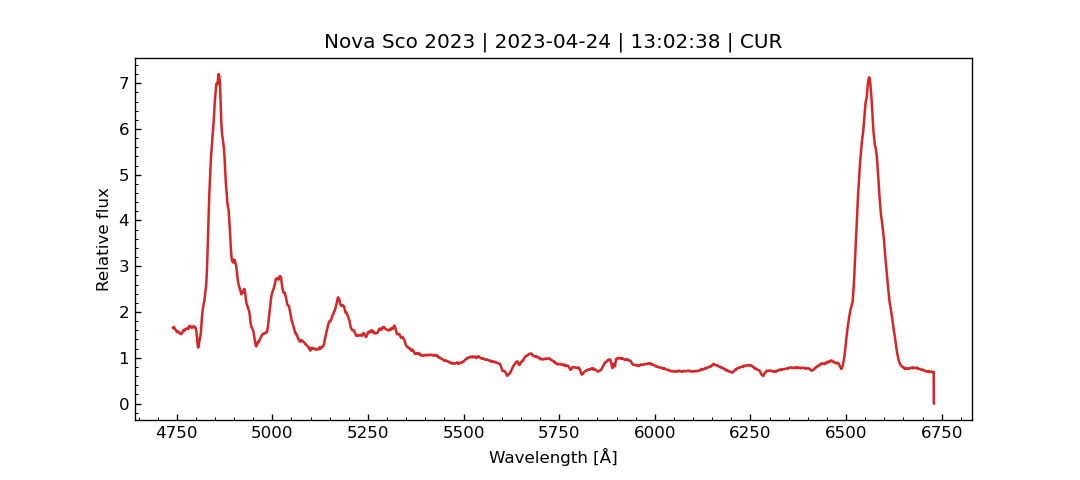
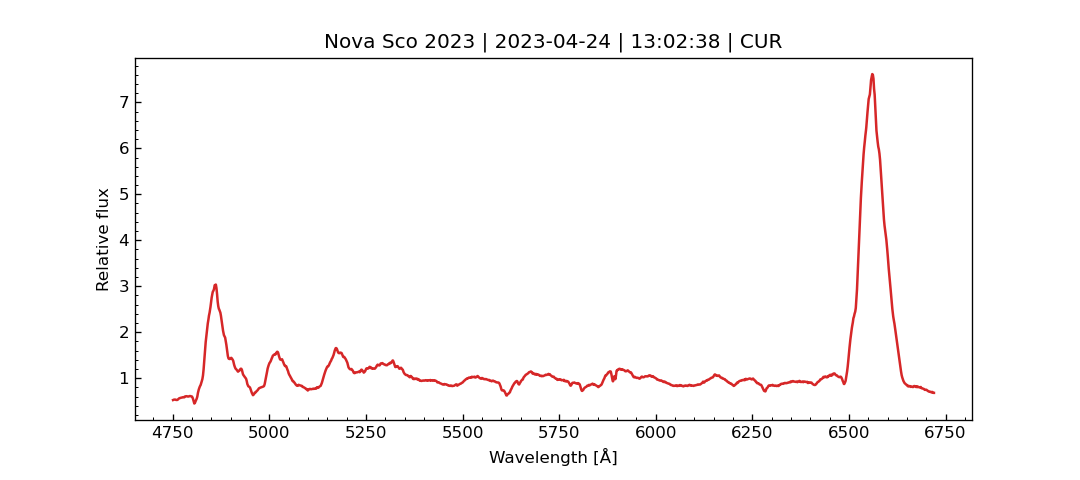
2023-04-25

diff --git a/novasco2023.html b/novasco2023.html
@@ -69,13 +69,15 @@
       <p class="card-text">RA (2000): 17 22 44.90</p>
   <p class="card-text">DEC (2000):  -41 37 16.0 </p>
   <p class="card-text">V (mag): MagnitudeV</p>
+  <a href="http://astronomy.science.upjs.sk/symbiotics/galactic-symbiotic-stars/confirmed-galactic-symbiotic-stars/Nom1/" class="btn btn-primary">New Online Database of Symbiotic Variables</a>
+      <a href="http://simbad.harvard.edu/simbad/sim-id?Ident=Nom2&NbIdent=1&Radius=2&Radius.unit=arcmin&submit=submit+id" class="btn btn-secondary">SIMBAD</a>
   </div>
   </div>
 </div><div class="col-sm-6">
     <div class="card">
       <div class="card-body">
 
-        <p class="card-text">Number of spectra:   12</p>
+        <p class="card-text">Number of spectra:   13</p>
 <p class="card-text">First spectrum:   2023-04-22</p>
 <p class="card-text">Last spectrum:   2023-04-25</p>
 <br>
@@ -243,21 +245,6 @@
     </tr>
     <tr>
       <td>2023-04-24</td>
-      <td>13:02</td>
-      <td>60059.044</td>
-      <td>CUR</td>
-      <td>SSO-AU</td>
-      <td>1058</td>
-      <td><svg xmlns="http://www.w3.org/2000/svg" width="5" height="16" fill="#007bff" class="bi bi-square-fill" viewBox="1 0 5 16"><path d="M0 2a2 2 0 0 1 2-2h12a2 2 0 0 1 2 2v12a2 2 0 0 1-2 2H2a2 2 0 0 1-2-2V2z"/></svg><svg xmlns="http://www.w3.org/2000/svg" width="5" height="16" fill="#007bff" class="bi bi-square-fill" viewBox="1 0 5 16"><path d="M0 2a2 2 0 0 1 2-2h12a2 2 0 0 1 2 2v12a2 2 0 0 1-2 2H2a2 2 0 0 1-2-2V2z"/></svg></td>
-      <td>4740</td>
-      <td>6730</td>
-      <td><svg xmlns="http://www.w3.org/2000/svg" width="5" height="16" fill="#EAC117" class="bi bi-square-fill" viewBox="1 0 5 16"><path d="M0 2a2 2 0 0 1 2-2h12a2 2 0 0 1 2 2v12a2 2 0 0 1-2 2H2a2 2 0 0 1-2-2V2z"/></svg><svg xmlns="http://www.w3.org/2000/svg" width="5" height="16" fill="#E42217" class="bi bi-square-fill" viewBox="1 0 5 16"><path d="M0 2a2 2 0 0 1 2-2h12a2 2 0 0 1 2 2v12a2 2 0 0 1-2 2H2a2 2 0 0 1-2-2V2z"/></svg></td>
-      <td><a href="spectra/asdb_novasco2023_20230424_543.fit" download target="_blank"><svg width="1em" height="1em" viewBox="0 0 16 16" class="bi bi-download" fill="currentColor" xmlns="http://www.w3.org/2000/svg"><path fill-rule="evenodd" d="M.5 8a.5.5 0 0 1 .5.5V12a1 1 0 0 0 1 1h12a1 1 0 0 0 1-1V8.5a.5.5 0 0 1 1 0V12a2 2 0 0 1-2 2H2a2 2 0 0 1-2-2V8.5A.5.5 0 0 1 .5 8z"/><path fill-rule="evenodd" d="M5 7.5a.5.5 0 0 1 .707 0L8 9.793 10.293 7.5a.5.5 0 1 1 .707.707l-2.646 2.647a.5.5 0 0 1-.708 0L5 8.207A.5.5 0 0 1 5 7.5z"/><path fill-rule="evenodd" d="M8 1a.5.5 0 0 1 .5.5v8a.5.5 0 0 1-1 0v-8A.5.5 0 0 1 8 1z"/></svg></a></td>
-      <td><a href="figures/asdb_novasco2023_20230424_543.png" target="_blank"><svg width="1em" height="1em" viewBox="0 0 16 16" class="bi bi-eye" fill="currentColor" xmlns="http://www.w3.org/2000/svg"><path fill-rule="evenodd" d="M16 8s-3-5.5-8-5.5S0 8 0 8s3 5.5 8 5.5S16 8 16 8zM1.173 8a13.134 13.134 0 0 0 1.66 2.043C4.12 11.332 5.88 12.5 8 12.5c2.12 0 3.879-1.168 5.168-2.457A13.134 13.134 0 0 0 14.828 8a13.133 13.133 0 0 0-1.66-2.043C11.879 4.668 10.119 3.5 8 3.5c-2.12 0-3.879 1.168-5.168 2.457A13.133 13.133 0 0 0 1.172 8z"/><path fill-rule="evenodd" d="M8 5.5a2.5 2.5 0 1 0 0 5 2.5 2.5 0 0 0 0-5zM4.5 8a3.5 3.5 0 1 1 7 0 3.5 3.5 0 0 1-7 0z"/></svg></a></td>
-      <td></td>
-    </tr>
-    <tr>
-      <td>2023-04-24</td>
       <td>14:10</td>
       <td>60059.091</td>
       <td>HBA</td>
@@ -284,6 +271,36 @@
       <td><svg xmlns="http://www.w3.org/2000/svg" width="5" height="16" fill="#151B8D" class="bi bi-square-fill" viewBox="1 0 5 16"><path d="M0 2a2 2 0 0 1 2-2h12a2 2 0 0 1 2 2v12a2 2 0 0 1-2 2H2a2 2 0 0 1-2-2V2z"/></svg><svg xmlns="http://www.w3.org/2000/svg" width="5" height="16" fill="#4AA02C" class="bi bi-square-fill" viewBox="1 0 5 16"><path d="M0 2a2 2 0 0 1 2-2h12a2 2 0 0 1 2 2v12a2 2 0 0 1-2 2H2a2 2 0 0 1-2-2V2z"/></svg><svg xmlns="http://www.w3.org/2000/svg" width="5" height="16" fill="#EAC117" class="bi bi-square-fill" viewBox="1 0 5 16"><path d="M0 2a2 2 0 0 1 2-2h12a2 2 0 0 1 2 2v12a2 2 0 0 1-2 2H2a2 2 0 0 1-2-2V2z"/></svg><svg xmlns="http://www.w3.org/2000/svg" width="5" height="16" fill="#E42217" class="bi bi-square-fill" viewBox="1 0 5 16"><path d="M0 2a2 2 0 0 1 2-2h12a2 2 0 0 1 2 2v12a2 2 0 0 1-2 2H2a2 2 0 0 1-2-2V2z"/></svg><svg xmlns="http://www.w3.org/2000/svg" width="5" height="16" fill="#8C001A" class="bi bi-square-fill" viewBox="1 0 5 16"><path d="M0 2a2 2 0 0 1 2-2h12a2 2 0 0 1 2 2v12a2 2 0 0 1-2 2H2a2 2 0 0 1-2-2V2z"/></svg></td>
       <td><a href="spectra/asdb_novasco2023_20230425_188.fit" download target="_blank"><svg width="1em" height="1em" viewBox="0 0 16 16" class="bi bi-download" fill="currentColor" xmlns="http://www.w3.org/2000/svg"><path fill-rule="evenodd" d="M.5 8a.5.5 0 0 1 .5.5V12a1 1 0 0 0 1 1h12a1 1 0 0 0 1-1V8.5a.5.5 0 0 1 1 0V12a2 2 0 0 1-2 2H2a2 2 0 0 1-2-2V8.5A.5.5 0 0 1 .5 8z"/><path fill-rule="evenodd" d="M5 7.5a.5.5 0 0 1 .707 0L8 9.793 10.293 7.5a.5.5 0 1 1 .707.707l-2.646 2.647a.5.5 0 0 1-.708 0L5 8.207A.5.5 0 0 1 5 7.5z"/><path fill-rule="evenodd" d="M8 1a.5.5 0 0 1 .5.5v8a.5.5 0 0 1-1 0v-8A.5.5 0 0 1 8 1z"/></svg></a></td>
       <td><a href="figures/asdb_novasco2023_20230425_188.png" target="_blank"><svg width="1em" height="1em" viewBox="0 0 16 16" class="bi bi-eye" fill="currentColor" xmlns="http://www.w3.org/2000/svg"><path fill-rule="evenodd" d="M16 8s-3-5.5-8-5.5S0 8 0 8s3 5.5 8 5.5S16 8 16 8zM1.173 8a13.134 13.134 0 0 0 1.66 2.043C4.12 11.332 5.88 12.5 8 12.5c2.12 0 3.879-1.168 5.168-2.457A13.134 13.134 0 0 0 14.828 8a13.133 13.133 0 0 0-1.66-2.043C11.879 4.668 10.119 3.5 8 3.5c-2.12 0-3.879 1.168-5.168 2.457A13.133 13.133 0 0 0 1.172 8z"/><path fill-rule="evenodd" d="M8 5.5a2.5 2.5 0 1 0 0 5 2.5 2.5 0 0 0 0-5zM4.5 8a3.5 3.5 0 1 1 7 0 3.5 3.5 0 0 1-7 0z"/></svg></a></td>
+      <td></td>
+    </tr>
+    <tr>
+      <td>2023-04-24</td>
+      <td>13:02</td>
+      <td>60059.044</td>
+      <td>CUR</td>
+      <td>SSO-AU</td>
+      <td>1124</td>
+      <td><svg xmlns="http://www.w3.org/2000/svg" width="5" height="16" fill="#007bff" class="bi bi-square-fill" viewBox="1 0 5 16"><path d="M0 2a2 2 0 0 1 2-2h12a2 2 0 0 1 2 2v12a2 2 0 0 1-2 2H2a2 2 0 0 1-2-2V2z"/></svg><svg xmlns="http://www.w3.org/2000/svg" width="5" height="16" fill="#007bff" class="bi bi-square-fill" viewBox="1 0 5 16"><path d="M0 2a2 2 0 0 1 2-2h12a2 2 0 0 1 2 2v12a2 2 0 0 1-2 2H2a2 2 0 0 1-2-2V2z"/></svg></td>
+      <td>4751</td>
+      <td>6721</td>
+      <td><svg xmlns="http://www.w3.org/2000/svg" width="5" height="16" fill="#EAC117" class="bi bi-square-fill" viewBox="1 0 5 16"><path d="M0 2a2 2 0 0 1 2-2h12a2 2 0 0 1 2 2v12a2 2 0 0 1-2 2H2a2 2 0 0 1-2-2V2z"/></svg><svg xmlns="http://www.w3.org/2000/svg" width="5" height="16" fill="#E42217" class="bi bi-square-fill" viewBox="1 0 5 16"><path d="M0 2a2 2 0 0 1 2-2h12a2 2 0 0 1 2 2v12a2 2 0 0 1-2 2H2a2 2 0 0 1-2-2V2z"/></svg></td>
+      <td><a href="spectra/asdb_novasco2023_20230424_543.fit" download target="_blank"><svg width="1em" height="1em" viewBox="0 0 16 16" class="bi bi-download" fill="currentColor" xmlns="http://www.w3.org/2000/svg"><path fill-rule="evenodd" d="M.5 8a.5.5 0 0 1 .5.5V12a1 1 0 0 0 1 1h12a1 1 0 0 0 1-1V8.5a.5.5 0 0 1 1 0V12a2 2 0 0 1-2 2H2a2 2 0 0 1-2-2V8.5A.5.5 0 0 1 .5 8z"/><path fill-rule="evenodd" d="M5 7.5a.5.5 0 0 1 .707 0L8 9.793 10.293 7.5a.5.5 0 1 1 .707.707l-2.646 2.647a.5.5 0 0 1-.708 0L5 8.207A.5.5 0 0 1 5 7.5z"/><path fill-rule="evenodd" d="M8 1a.5.5 0 0 1 .5.5v8a.5.5 0 0 1-1 0v-8A.5.5 0 0 1 8 1z"/></svg></a></td>
+      <td><a href="figures/asdb_novasco2023_20230424_543.png" target="_blank"><svg width="1em" height="1em" viewBox="0 0 16 16" class="bi bi-eye" fill="currentColor" xmlns="http://www.w3.org/2000/svg"><path fill-rule="evenodd" d="M16 8s-3-5.5-8-5.5S0 8 0 8s3 5.5 8 5.5S16 8 16 8zM1.173 8a13.134 13.134 0 0 0 1.66 2.043C4.12 11.332 5.88 12.5 8 12.5c2.12 0 3.879-1.168 5.168-2.457A13.134 13.134 0 0 0 14.828 8a13.133 13.133 0 0 0-1.66-2.043C11.879 4.668 10.119 3.5 8 3.5c-2.12 0-3.879 1.168-5.168 2.457A13.133 13.133 0 0 0 1.172 8z"/><path fill-rule="evenodd" d="M8 5.5a2.5 2.5 0 1 0 0 5 2.5 2.5 0 0 0 0-5zM4.5 8a3.5 3.5 0 1 1 7 0 3.5 3.5 0 0 1-7 0z"/></svg></a></td>
+      <td></td>
+    </tr>
+    <tr>
+      <td>2023-04-25</td>
+      <td>13:11</td>
+      <td>60060.050</td>
+      <td>CUR</td>
+      <td>SSO-AU</td>
+      <td>1117</td>
+      <td><svg xmlns="http://www.w3.org/2000/svg" width="5" height="16" fill="#007bff" class="bi bi-square-fill" viewBox="1 0 5 16"><path d="M0 2a2 2 0 0 1 2-2h12a2 2 0 0 1 2 2v12a2 2 0 0 1-2 2H2a2 2 0 0 1-2-2V2z"/></svg><svg xmlns="http://www.w3.org/2000/svg" width="5" height="16" fill="#007bff" class="bi bi-square-fill" viewBox="1 0 5 16"><path d="M0 2a2 2 0 0 1 2-2h12a2 2 0 0 1 2 2v12a2 2 0 0 1-2 2H2a2 2 0 0 1-2-2V2z"/></svg></td>
+      <td>4751</td>
+      <td>6721</td>
+      <td><svg xmlns="http://www.w3.org/2000/svg" width="5" height="16" fill="#EAC117" class="bi bi-square-fill" viewBox="1 0 5 16"><path d="M0 2a2 2 0 0 1 2-2h12a2 2 0 0 1 2 2v12a2 2 0 0 1-2 2H2a2 2 0 0 1-2-2V2z"/></svg><svg xmlns="http://www.w3.org/2000/svg" width="5" height="16" fill="#E42217" class="bi bi-square-fill" viewBox="1 0 5 16"><path d="M0 2a2 2 0 0 1 2-2h12a2 2 0 0 1 2 2v12a2 2 0 0 1-2 2H2a2 2 0 0 1-2-2V2z"/></svg></td>
+      <td><a href="spectra/asdb_novasco2023_20230425_549.fit" download target="_blank"><svg width="1em" height="1em" viewBox="0 0 16 16" class="bi bi-download" fill="currentColor" xmlns="http://www.w3.org/2000/svg"><path fill-rule="evenodd" d="M.5 8a.5.5 0 0 1 .5.5V12a1 1 0 0 0 1 1h12a1 1 0 0 0 1-1V8.5a.5.5 0 0 1 1 0V12a2 2 0 0 1-2 2H2a2 2 0 0 1-2-2V8.5A.5.5 0 0 1 .5 8z"/><path fill-rule="evenodd" d="M5 7.5a.5.5 0 0 1 .707 0L8 9.793 10.293 7.5a.5.5 0 1 1 .707.707l-2.646 2.647a.5.5 0 0 1-.708 0L5 8.207A.5.5 0 0 1 5 7.5z"/><path fill-rule="evenodd" d="M8 1a.5.5 0 0 1 .5.5v8a.5.5 0 0 1-1 0v-8A.5.5 0 0 1 8 1z"/></svg></a></td>
+      <td><a href="figures/asdb_novasco2023_20230425_549.png" target="_blank"><svg width="1em" height="1em" viewBox="0 0 16 16" class="bi bi-eye" fill="currentColor" xmlns="http://www.w3.org/2000/svg"><path fill-rule="evenodd" d="M16 8s-3-5.5-8-5.5S0 8 0 8s3 5.5 8 5.5S16 8 16 8zM1.173 8a13.134 13.134 0 0 0 1.66 2.043C4.12 11.332 5.88 12.5 8 12.5c2.12 0 3.879-1.168 5.168-2.457A13.134 13.134 0 0 0 14.828 8a13.133 13.133 0 0 0-1.66-2.043C11.879 4.668 10.119 3.5 8 3.5c-2.12 0-3.879 1.168-5.168 2.457A13.133 13.133 0 0 0 1.172 8z"/><path fill-rule="evenodd" d="M8 5.5a2.5 2.5 0 1 0 0 5 2.5 2.5 0 0 0 0-5zM4.5 8a3.5 3.5 0 1 1 7 0 3.5 3.5 0 0 1-7 0z"/></svg></a></td>
       <td></td>
     </tr>
   </tbody>

diff --git a/novae.html b/novae.html
@@ -70,8 +70,8 @@
  <p class="card-text">Details on stars:   <a href="http://asd.gsfc.nasa.gov/Koji.Mukai/novae/novae.html">Koji's List of Recent Galactic Novae</a></p>
  <style>table {text-align: center;}table thead th {text-align: center;}</style>
 <p class="card-text">Number of stars: 66
-</p><p class="card-text">Number of spectra: 3979
-</p><p class="card-text">Last update: 2023-04-25, 16:13</p>
+</p><p class="card-text">Number of spectra: 3981
+</p><p class="card-text">Last update: 2023-04-25, 16:43</p>
 <br><br>
 <a href="observers.html" class="btn btn-secondary">Observers</a>
         <a href="observatories.html" class="btn btn-secondary">Observatories</a>
@@ -825,7 +825,7 @@
       <td>-41 37 16.0</td>
       <td></td>
       <td>PNV J17224490-4137160</td>
-      <td>12</td>
+      <td>13</td>
       <td>2023-04-22</td>
       <td>2023-04-25</td>
       <td><script>var date1, date2;date1 = new Date();date2 = new Date( "2023-04-25 00:00:00" );var res = Math.abs(date1 - date2) / 1000;var days = Math.floor(res / 86400);document.write(days);</script></td>
@@ -836,7 +836,7 @@
       <td>-41 37 16.0</td>
       <td></td>
       <td>PNV J17224490-4137160</td>
-      <td>12</td>
+      <td>13</td>
       <td>2023-04-22</td>
       <td>2023-04-25</td>
       <td><script>var date1, date2;date1 = new Date();date2 = new Date( "2023-04-25 00:00:00" );var res = Math.abs(date1 - date2) / 1000;var days = Math.floor(res / 86400);document.write(days);</script></td>

diff --git a/symbiotics.html b/symbiotics.html
@@ -74,7 +74,7 @@
  <style>table {text-align: center;}table thead th {text-align: center;}</style>
 <p class="card-text">Number of stars: 103
 </p><p class="card-text">Number of spectra: 8031
-</p><p class="card-text">Last update: 2023-04-25, 16:13</p>
+</p><p class="card-text">Last update: 2023-04-25, 16:42</p>
 <br><br>
 <a href="observers.html" class="btn btn-secondary">Observers</a>
         <a href="observatories.html" class="btn btn-secondary">Observatories</a>

diff --git a/dwarf_novae.html b/dwarf_novae.html
@@ -71,7 +71,7 @@
  <style>table {text-align: center;}table thead th {text-align: center;}</style>
 <p class="card-text">Number of stars: 33
 </p><p class="card-text">Number of spectra: 374
-</p><p class="card-text">Last update: 2023-04-25, 16:13</p>
+</p><p class="card-text">Last update: 2023-04-25, 16:43</p>
 <br><br>
 <a href="observers.html" class="btn btn-secondary">Observers</a>
         <a href="observatories.html" class="btn btn-secondary">Observatories</a>
